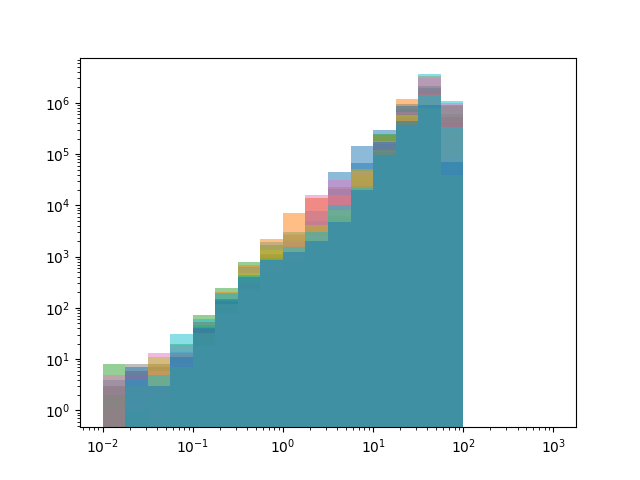
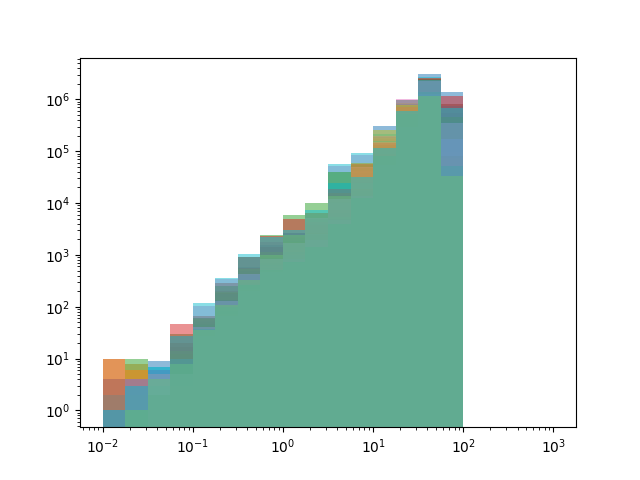
also correct profile_cyl for return indent error

diff --git a/bin/cal_halo_xrayprofile_cyl.py b/bin/cal_halo_xrayprofile_cyl.py
@@ -8,21 +8,14 @@ import matplotlib.pyplot as plt
 
 
 @nb.jit(nopython=True)
-def msk_in_sph(coor, halo_center, r1, r2):
-    n = 3
-    print(coor.shape)
+def msk_in_cyl(coor, halo_center, r1, r2, z):
+    n = 2
     where = np.empty(coor.shape[0], dtype=np.bool_)
     for i in range(coor.shape[0]):
         d2 = 0.0
-        for k in range(n):
-            d2 += (coor[i,k] - halo_center[k])**2
-        where[i] = (d2 < r2**2) #& (d2 >= r1**2)
-    
-    return where
-   
-def msk_in_sph_new(coor, halo_center, r1, r2):
-    dists = np.linalg.norm(coor-halo_center, axis=1)
-    where = (dists< r2) & (dists>=r1)
+        for j in range(n):
+            d2 += (coor[i,j] - halo_center[j])**2
+        where[i] = (d2 < r2**2) & (d2 >= r1**2) & (coor[i,2] <= (halo_center[2]+z)) & (coor[i,2] >= (halo_center[2]-z))
     return where
 
 for mf in [13.0, 13.5]:
@@ -50,7 +43,7 @@ for mf in [13.0, 13.5]:
                 olddf_part = pd.read_csv(f'{olddatapath}/xray_linelum_snapshot75_halo{int(haloid-1)}_partlum_230404.csv')
                 arr  = np.zeros(len(bins))
                 for j in range(len(bins)-1):
-                    radmsk = msk_in_sph_new(np.array([olddf_part['part_xcoords'], olddf_part['part_ycoords'], olddf_part['part_zcoords']]).T, halo_cen, bins[j], bins[j+1])
+                    radmsk = msk_in_cyl(np.array([olddf_part['part_xcoords'], olddf_part['part_ycoords'], olddf_part['part_zcoords']]).T, halo_cen, bins[j], bins[j+1], 6.25/2)
                     if prop != 'cts':
                         arr[j] = np.nansum(olddf_part[prop][np.array(olddf_part['jointmsk']) & radmsk])
                     else:
@@ -58,7 +51,6 @@ for mf in [13.0, 13.5]:
                 return arr
            
             def cal_xraylum_incl(k):
-                print(k)
                 haloid = haloids[k]
                 halo_cen = halo_centers[k]
                 # print(f'cal halo{haloid} ...')
@@ -66,7 +58,7 @@ for mf in [13.0, 13.5]:
                 arr = np.zeros(len(bins))
                 olddf_part = pd.read_csv(f'{olddatapath}/xray_linelum_snapshot75_halo{int(haloid-1)}_partlum_230404.csv')
                 for j in range(len(bins)-1):
-                    radmsk = msk_in_sph_new(np.array([olddf_part['part_xcoords'], olddf_part['part_ycoords'], olddf_part['part_zcoords']]).T, halo_cen, bins[j], bins[j+1])
+                    radmsk = msk_in_cyl(np.array([olddf_part['part_xcoords'], olddf_part['part_ycoords'], olddf_part['part_zcoords']]).T, halo_cen, bins[j], bins[j+1], 6.25/2)
                     if prop != 'cts':
                         arr[j] = np.nansum(olddf_part[prop][radmsk])
                     else:
@@ -87,7 +79,7 @@ for mf in [13.0, 13.5]:
                     output1[:,k] = result
             
             df = pd.DataFrame.from_dict(output)
-            df.to_csv(f'{savepath}/{prop}_{xbins_names[q]}_excl_sph.csv')
+            df.to_csv(f'{savepath}/{prop}_{xbins_names[q]}_excl_cyl.csv')
             df = pd.DataFrame.from_dict(output1)
-            df.to_csv(f'{savepath}/{prop}_{xbins_names[q]}_incl_sph.csv')
+            df.to_csv(f'{savepath}/{prop}_{xbins_names[q]}_incl_cyl.csv')
             print(f'{datetime.now()}: csv has been saved!')
